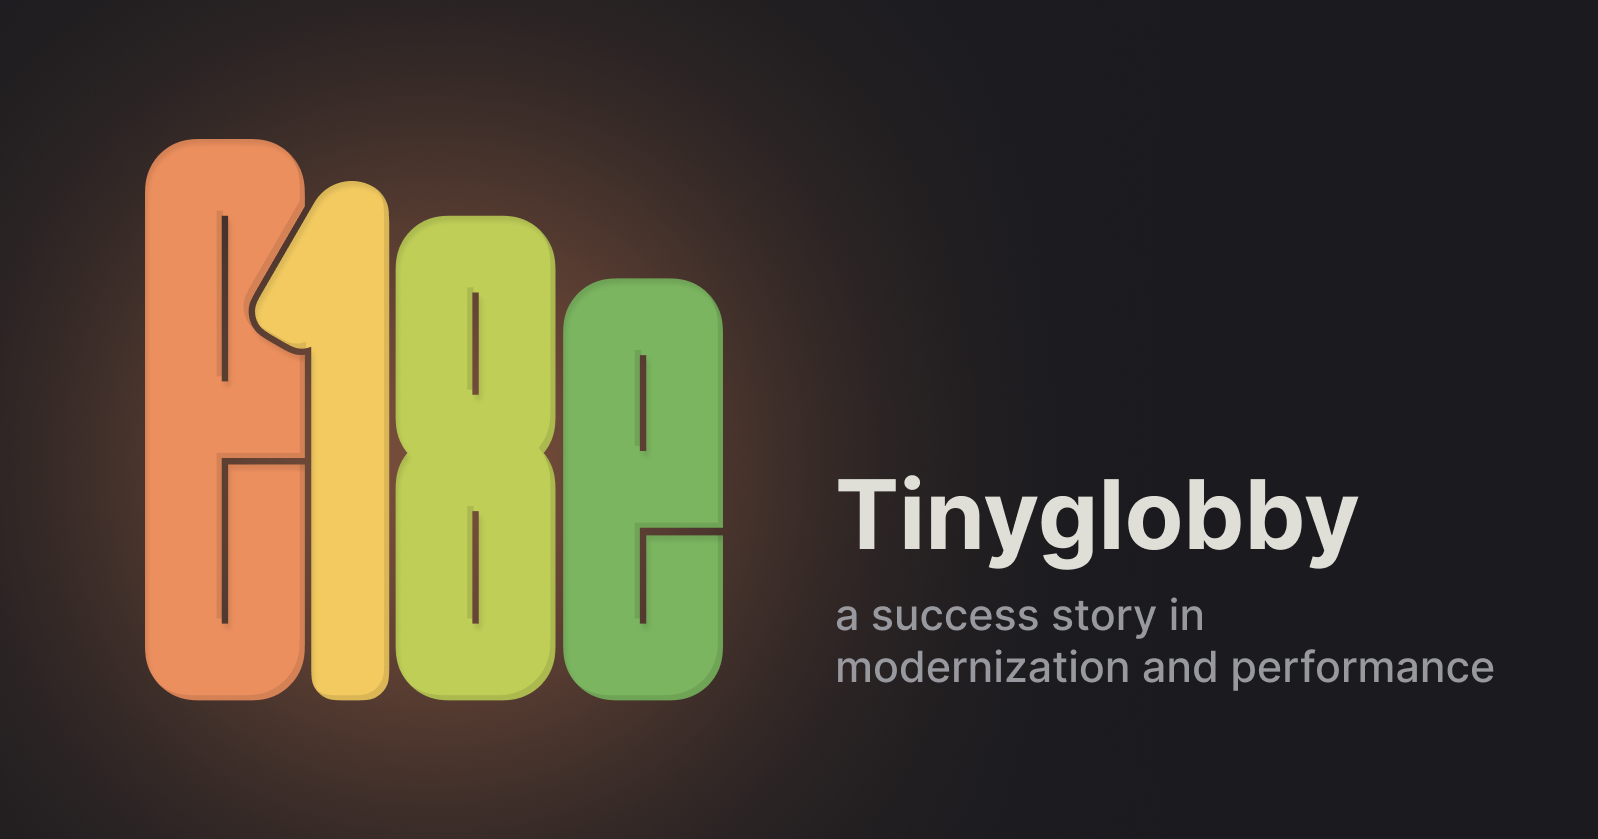
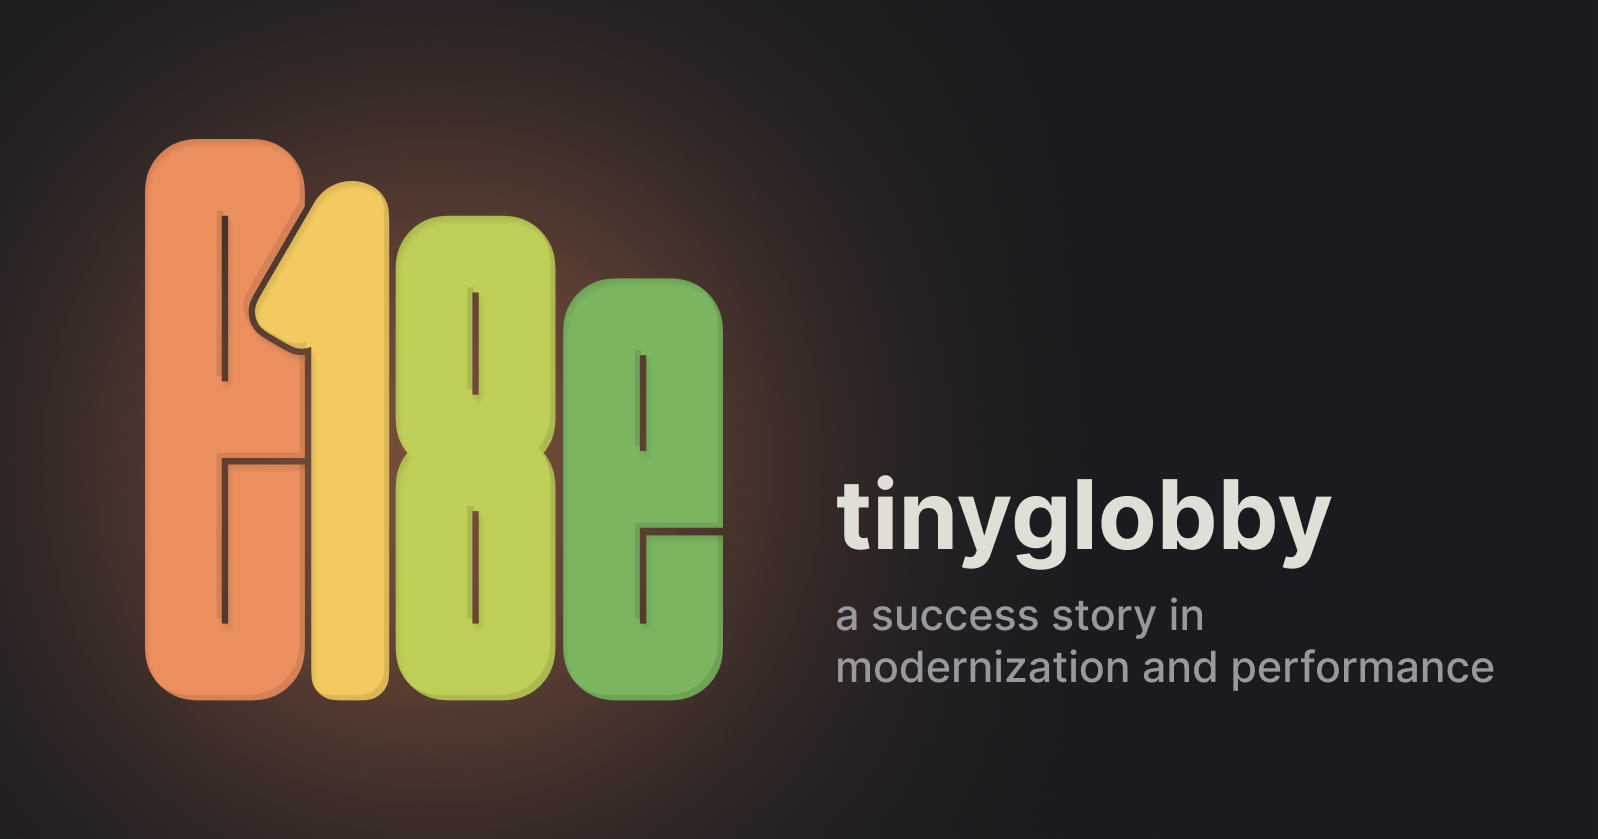
lowercase t

Changed region(s): [[0.5213, 0.5578, 0.8586, 0.6818]]

diff --git a/docs/blog/tinyglobby-migration.md b/docs/blog/tinyglobby-migration.md
@@ -1,5 +1,5 @@
 ---
-title: 'Tinyglobby: a success story in modernization and performance'
+title: 'tinyglobby: a success story in modernization and performance'
 author:
   - name: Madeline Gurriarán
 sidebar: false
@@ -10,7 +10,7 @@ head:
       content: website
   - - meta
     - property: og:title
-      content: 'Tinyglobby: a success story in modernization and performance'
+      content: 'tinyglobby: a success story in modernization and performance'
   - - meta
     - property: og:url
       content: https://e18e.dev/blog/tinyglobby-migration
@@ -24,7 +24,7 @@ head:
 
 _November 11, 2025_
 
-![Tinyglobby: a success story in modernization and performance)](/og/tinyglobby-migration.png)
+![tinyglobby: a success story in modernization and performance)](/og/tinyglobby-migration.png)
 
 My story with dependencies is odd. I started coding in JavaScript about six years ago,
 and over time I started to notice just how big my lockfiles were getting every time
@@ -58,9 +58,9 @@ Having fewer packages reduces the need to have as many people with access to mer
 
 Of course, `globby` and `fast-glob` are widely used, so you may question whether switching to `tinyglobby` just results in more dependencies rather than any savings once dependency deduplication is factored in.
 
-Fortunately, the community has been hard at work consolidating around the use of tinyglobby and reducing this problem.
+Fortunately, the community has been hard at work consolidating around the use of `tinyglobby` and reducing this problem.
 
-A whole raft of popular build tools now rely solely on tinyglobby for glob functionality:
+A whole raft of popular build tools now rely solely on `tinyglobby` for glob functionality:
 
 - Vite
 - SWC
@@ -72,7 +72,7 @@ A whole raft of popular build tools now rely solely on tinyglobby for glob funct
 - lerna
 - and many more...
 
-None of these tools have a deep dependency on other glob libraries - all of them use tinyglobby all the way down 🎉
+None of these tools have a deep dependency on other glob libraries - all of them use `tinyglobby` all the way down 🎉
 
 Similarly, many popular frameworks have made the same move:
 
